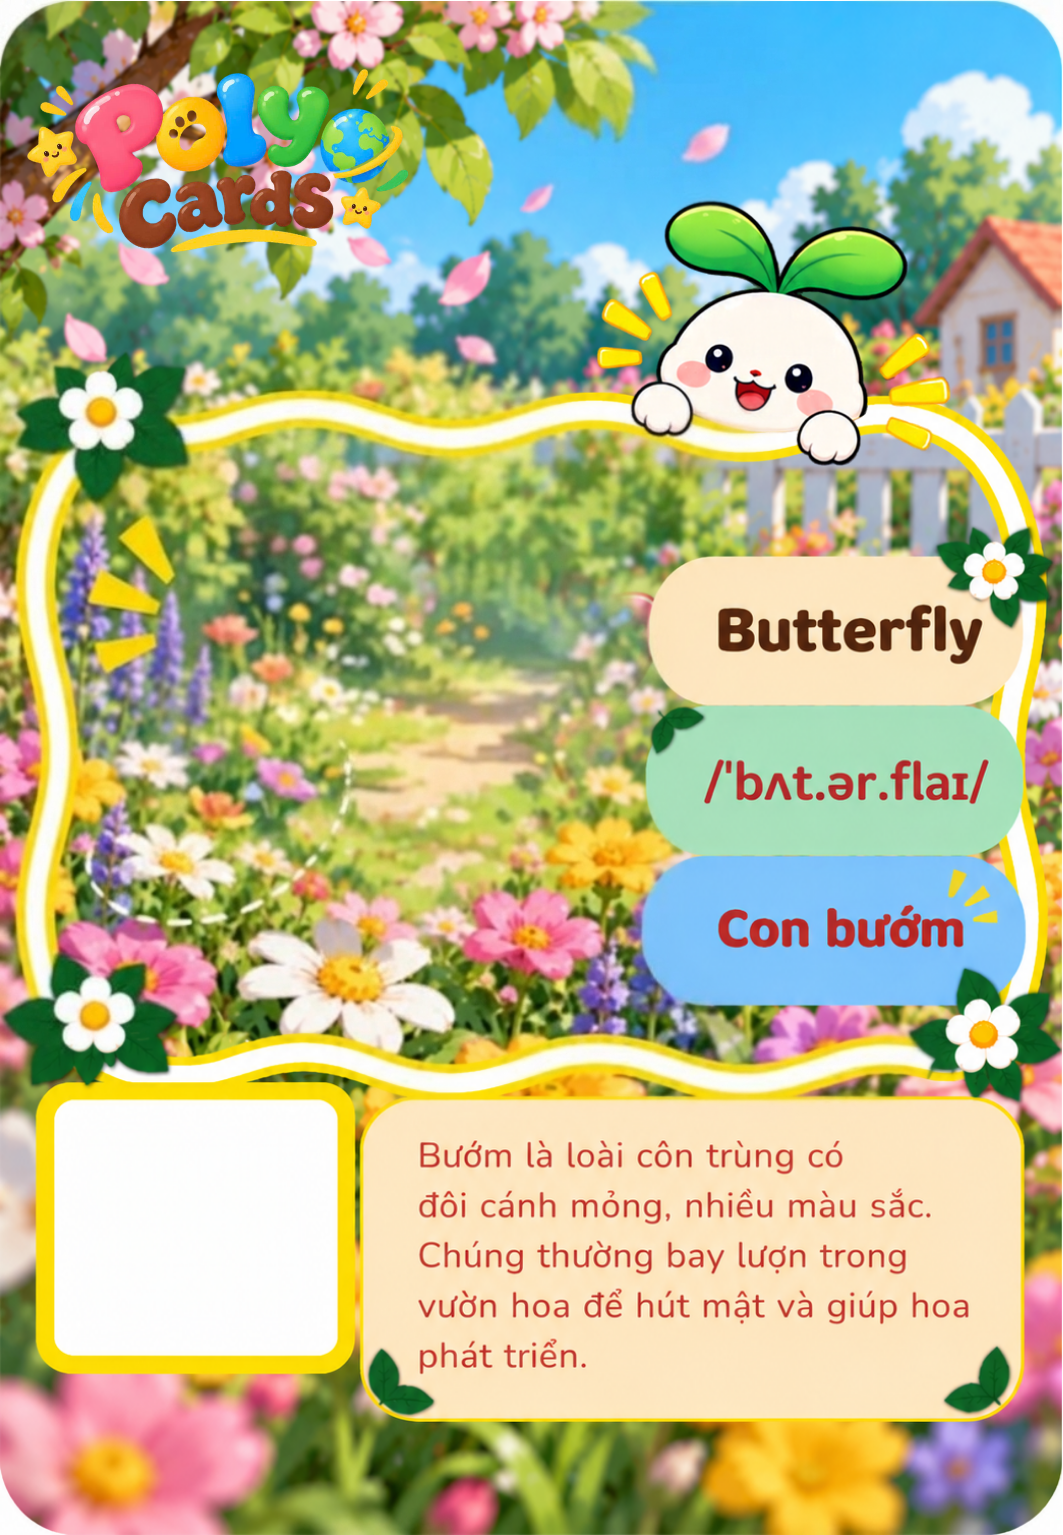
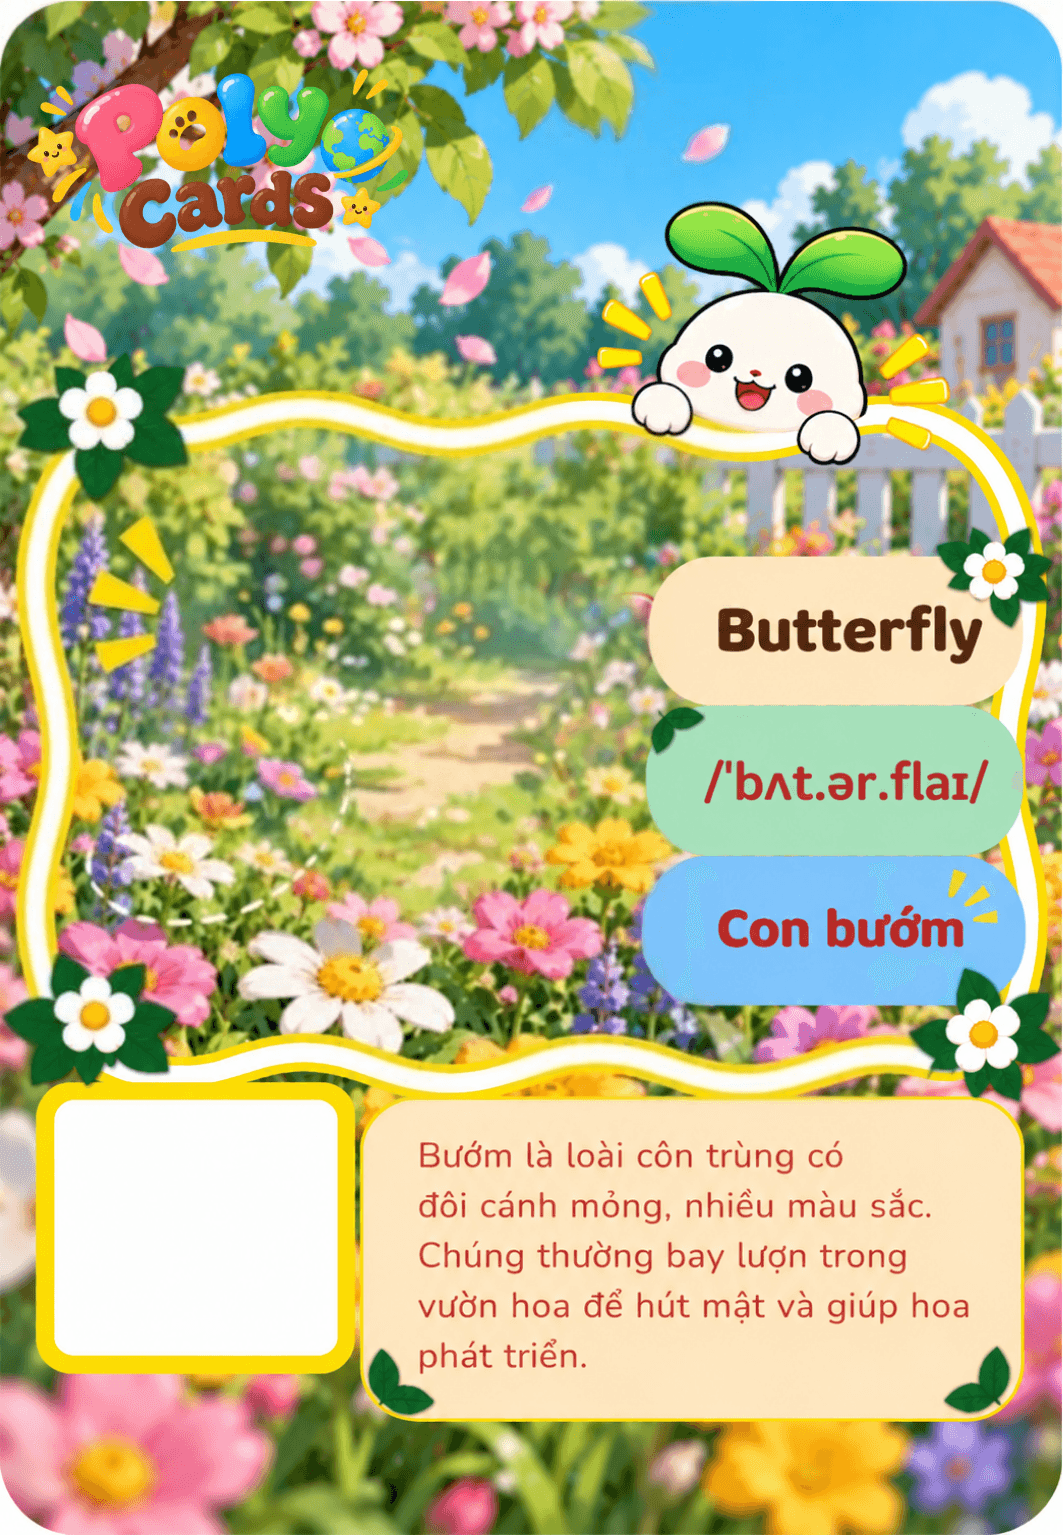
perf(landing): optimize hero butterfly card images from 5.3MB to 396KB with WebP and blur placeholders

diff --git a/src/components/landing/hero-butterfly-ar-card.tsx b/src/components/landing/hero-butterfly-ar-card.tsx
@@ -15,6 +15,13 @@ import { HeroQrMatrixSwap } from "./hero-qr-matrix-swap";
 // =========================================================================
 export const BUTTERFLY_SCALE_MULTIPLIER = 0.52;
 
+// Placeholders mờ siêu nhẹ (Base64 WebP) giúp thẻ hiển thị ngay tức thì, chống nhảy layout (Zero CLS)
+const BLUR_SAU =
[1 lines of base64/hex data omitted]
+
+const BLUR_TRUOC =
[1 lines of base64/hex data omitted]
+
 interface HeroButterflyArCardProps {
   cardBeforeSrc?: string; // Ảnh thẻ 2D có hình bướm gốc
   cardAfterSrc?: string; // Ảnh phôi nền sạch không có bướm
@@ -22,8 +29,8 @@ interface HeroButterflyArCardProps {
 }
 
 export function HeroButterflyArCard({
-  cardBeforeSrc = "/images/cards/butterfly-card-truoc.png",
-  cardAfterSrc = "/images/cards/butterfly-card-sau.png",
+  cardBeforeSrc = "/images/cards/butterfly-card-truoc.webp",
+  cardAfterSrc = "/images/cards/butterfly-card-sau.webp",
   modelUrl = "/models/buom-animated.glb",
 }: HeroButterflyArCardProps) {
   // Trạng thái AR 3D: ban đầu bắt đầu ở chế độ Thẻ 2D chuẩn, sau đó tự động hóa thân mượt mà sang 3D
@@ -421,19 +428,21 @@ export function HeroButterflyArCard({
     >
       {/* KHUNG THẺ VẬT LÝ BO GÓC CAO CẤP (Chứa 2 lớp ảnh thẻ 1063x1535 và mã QR, bo góc và đổ bóng) */}
       <div className="relative aspect-[1063/1535] w-full overflow-hidden rounded-[2.2rem] bg-gradient-to-b from-amber-100 to-amber-50 shadow-2xl shadow-amber-950/20 ring-4 ring-white/90 transition-transform duration-300 hover:scale-[1.015]">
-        {/* 1. LỚP ẢNH DƯỚI: butterfly-card-sau.png (Phôi nền sạch KHÔNG CÓ BƯỚM) */}
+        {/* 1. LỚP ẢNH DƯỚI: butterfly-card-sau.webp (Phôi nền sạch KHÔNG CÓ BƯỚM - Tối ưu 188KB) */}
         <div className="absolute inset-0 z-0">
           <Image
             src={cardAfterSrc}
             alt="Phôi sạch thẻ bài học tiếng Anh Butterfly Poly Cards"
             fill
             priority
+            placeholder="blur"
+            blurDataURL={BLUR_SAU}
             sizes="(max-width: 640px) 100vw, 420px"
             className="object-cover"
           />
         </div>
 
-        {/* 2. LỚP ẢNH TRÊN: butterfly-card-truoc.png (Thẻ 2D CÓ CON BƯỚM TRONG TRANH) */}
+        {/* 2. LỚP ẢNH TRÊN: butterfly-card-truoc.webp (Thẻ 2D CÓ CON BƯỚM TRONG TRANH - Tối ưu 206KB) */}
         {/* Hiệu ứng chuyển cảnh mờ dần cực kỳ êm dịu (duration-1500 ease-in-out) */}
         <div
           className={`absolute inset-0 z-10 transition-opacity duration-1500 ease-in-out ${
@@ -445,6 +454,8 @@ export function HeroButterflyArCard({
             alt="Thẻ bài học tiếng Anh Butterfly Poly Cards 2D gốc"
             fill
             priority
+            placeholder="blur"
+            blurDataURL={BLUR_TRUOC}
             sizes="(max-width: 640px) 100vw, 420px"
             className="object-cover"
           />

diff --git a/src/components/landing/combo-pack-card.tsx b/src/components/landing/combo-pack-card.tsx
@@ -22,11 +22,11 @@ interface ComboPackCardProps {
 export function ComboPackCard({ pack, isVipBanner = false }: ComboPackCardProps) {
   const isVip = isVipBanner || pack.id === "pack-combo-vip-120";
   const [imgSrc, setImgSrc] = useState<string>(
-    pack.imageSrc || "/images/cards/butterfly-card.png"
+    pack.imageSrc || "/images/cards/butterfly-card.webp"
   );
 
   useEffect(() => {
-    setImgSrc(pack.imageSrc || "/images/cards/butterfly-card.png");
+    setImgSrc(pack.imageSrc || "/images/cards/butterfly-card.webp");
   }, [pack.imageSrc]);
 
   const detailHref =
@@ -54,7 +54,7 @@ export function ComboPackCard({ pack, isVipBanner = false }: ComboPackCardProps)
               alt={`Bộ thẻ học ${pack.name}`}
               fill
               unoptimized
-              onError={() => setImgSrc("/images/cards/butterfly-card.png")}
+              onError={() => setImgSrc("/images/cards/butterfly-card.webp")}
               className="object-cover transition-transform duration-500 group-hover:scale-105"
               sizes="(max-width: 1024px) 100vw, 45vw"
             />
@@ -178,7 +178,7 @@ export function ComboPackCard({ pack, isVipBanner = false }: ComboPackCardProps)
           alt={`Bộ thẻ học ${pack.name}`}
           fill
           unoptimized
-          onError={() => setImgSrc("/images/cards/butterfly-card.png")}
+          onError={() => setImgSrc("/images/cards/butterfly-card.webp")}
           className="object-cover transition-transform duration-500 group-hover:scale-106"
           sizes="(max-width: 768px) 100vw, 50vw"
         />

diff --git a/src/components/landing/hero-section.tsx b/src/components/landing/hero-section.tsx
@@ -146,8 +146,8 @@ export function HeroSection() {
             <div className="relative mx-auto flex max-w-sm flex-col items-center overflow-visible">
               {/* Thẻ biến hình AR 3D sống động (Card Trước 2D mờ dần -> Card Sau lộ ra + Bướm 3D vỗ cánh bay ra) */}
               <HeroButterflyArCard
-                cardBeforeSrc="/images/cards/butterfly-card-truoc.png"
-                cardAfterSrc="/images/cards/butterfly-card-sau.png"
+                cardBeforeSrc="/images/cards/butterfly-card-truoc.webp"
+                cardAfterSrc="/images/cards/butterfly-card-sau.webp"
                 modelUrl="/models/buom-animated.glb"
               />
 
